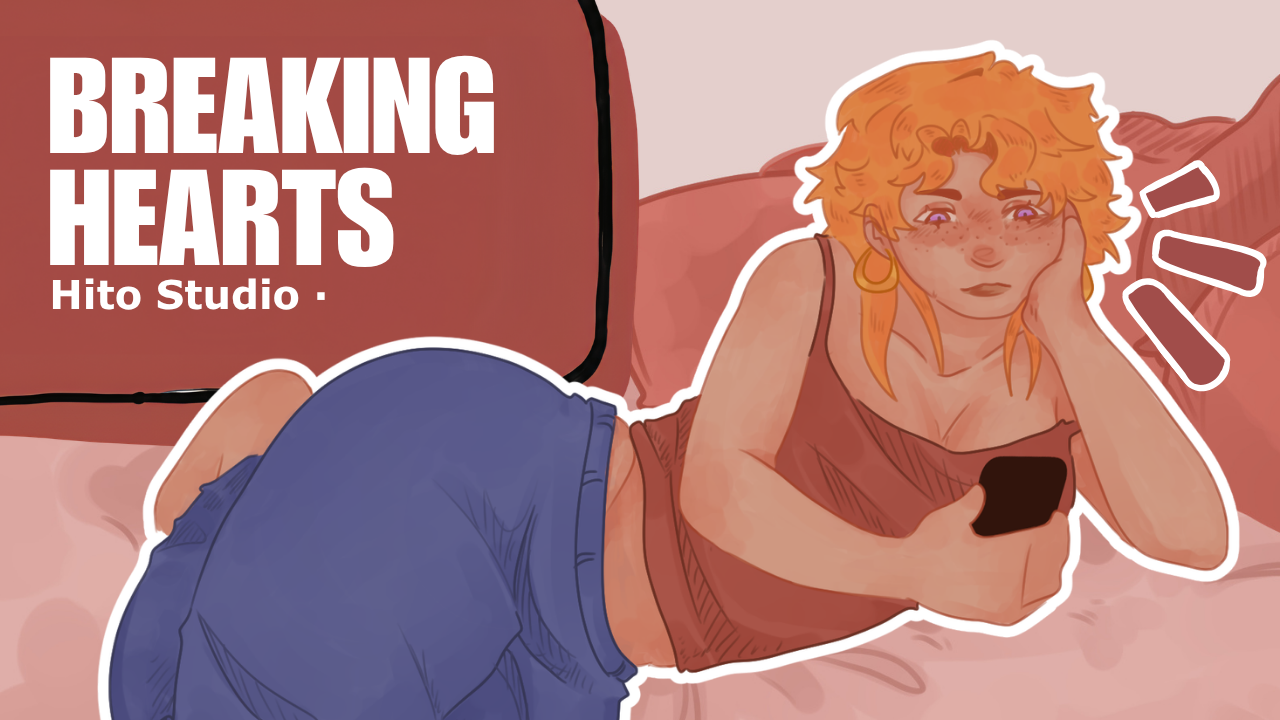
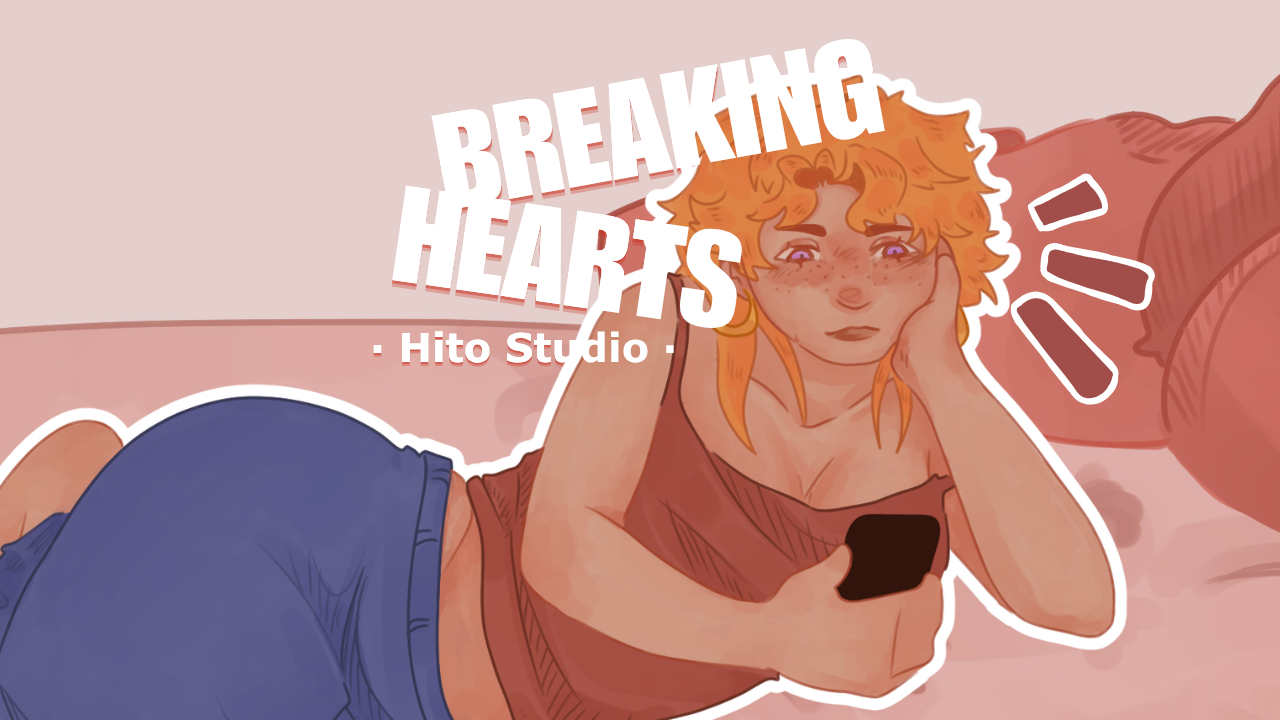
Update games adjustments + nav

diff --git a/game.css b/game.css
@@ -11,22 +11,43 @@ header {
     display: flex;
     justify-content: center;
     background-image: var(--header-bg);
-    mask-image: linear-gradient(to bottom, black 80%, transparent 100%);
     height: 90vh;
     background-size: cover;
     background-repeat: no-repeat;
     background-position: center;
     background-attachment: fixed;
+    position: relative;
 }
 header img {
-    position: fixed;
+    position: absolute;
     height: 50vh;
     width: auto;
+}
+nav {
+    position: absolute;
+    bottom: 0;
+    display: flex;
+    width: 100%;
+    margin-left: 5vw;
+    gap: 1.5vw;
+}
+nav a {
+    font-size: 2.5cqw;
+    padding: 10px 30px;
+    background-color: var(--secundary-color);
+    border-top-left-radius: 15px;
+    border-top-right-radius: 15px;
+    color: var(--main-color);
+    transition: transform 0.3s ease;
+}
+nav a:hover {
+    transform: translateY(10px);
 }
 
 /*MAIN*/
 main {
-    margin-top: 5vh;
+    position: relative;
+    margin-top: 7vh;
 }
 main img{
     width: 100%;
@@ -65,7 +86,7 @@ article p {
     line-height: 1.5;
     font-size: 1.5cqw;
 }
-strong {
+article strong {
     color: var(--secundary-color);
 }
 .hook {
@@ -86,7 +107,7 @@ strong {
 .preview {
     position: absolute;
     width: 100%;
-    top: 97vh;
+    top: 2vh;
     background-image: var(--inline-bg);
     background-size: contain;
     background-repeat: no-repeat;
@@ -128,14 +149,27 @@ strong {
 @media (max-width: 825px) {
     header {
         height: 80vh;
-        mask-image: linear-gradient(to bottom, black 80%, transparent 100%);
     }
     header img {
+        top: 10vh;
         height: auto;
         width: 100vw;
     }
+    nav {
+        height: 5vh;
+        margin-left: 0;
+        display: flex;
+        width: 100%;
+        justify-content:space-between;
+        align-items: center;
+    }
+    nav a {
+        text-align: center;
+        width: 35vw;
+        font-size: 4cqw;
+    }
     .hook {
-        margin-bottom: 15vh;
+        margin-bottom: 10vh;
     }
     .hook h3 {
         text-align: center;
@@ -143,7 +177,7 @@ strong {
         margin: 0 5vw;
     }
     .preview {
-        top: 97vh;
+        top: 8vh;
         justify-content: center;
     }
     .preview img {

diff --git a/game.html b/game.html
@@ -13,8 +13,13 @@
     <body>
         <header id="game-header">
             <img id="game-logo">
+            <nav>
+                <a href="portfolio.html"><strong>Portfolio</strong></a>
+                <a href="about-me.html"><strong>About Me</strong></a>
+            </nav>
         </header>
         <main id="game-content">
+
             <audio id="game-music" autoplay loop></audio>
             <article class="hook">
                 <h3 id="game-hook"></h3>
